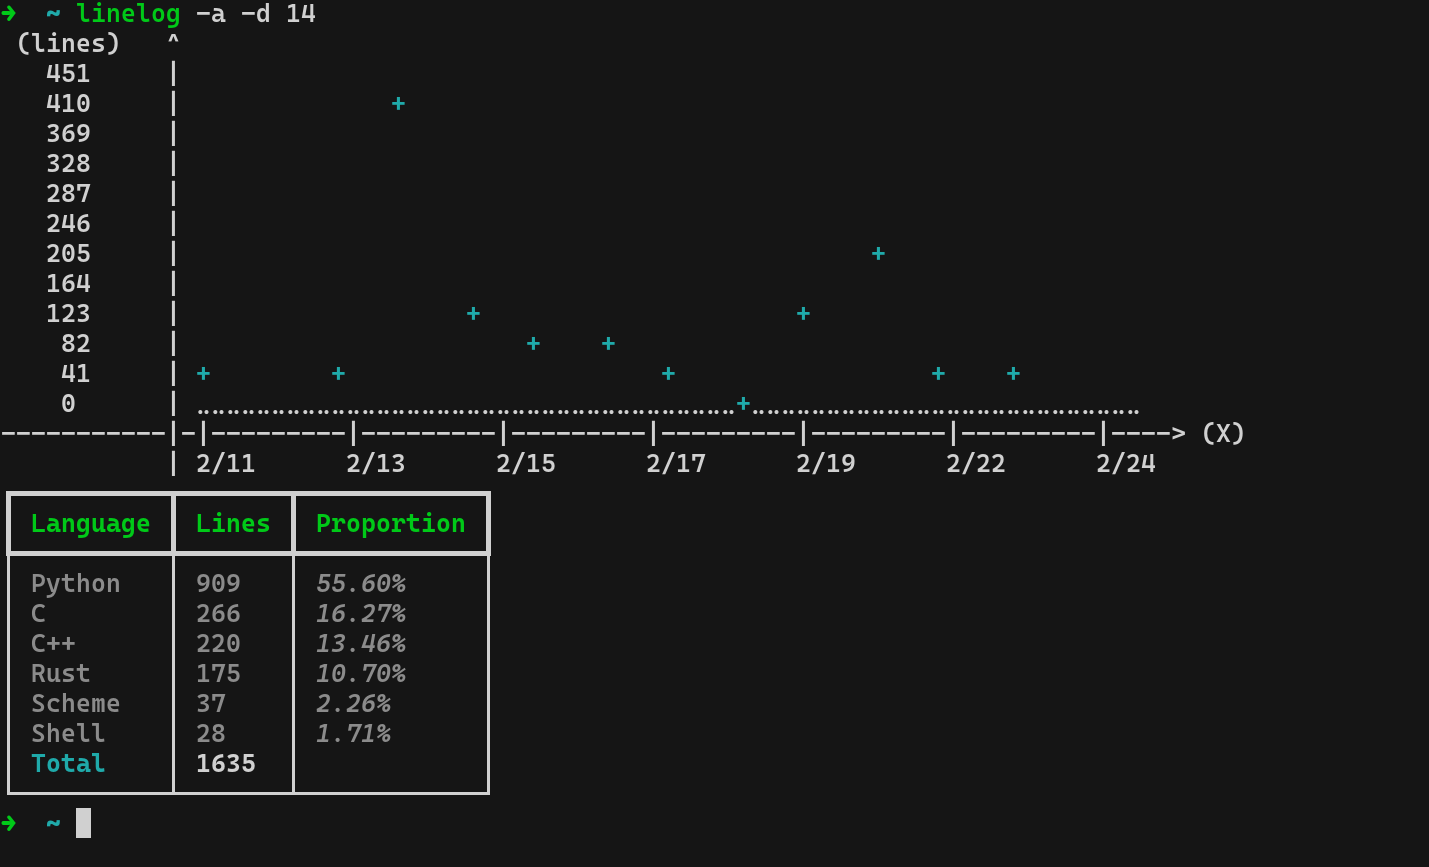
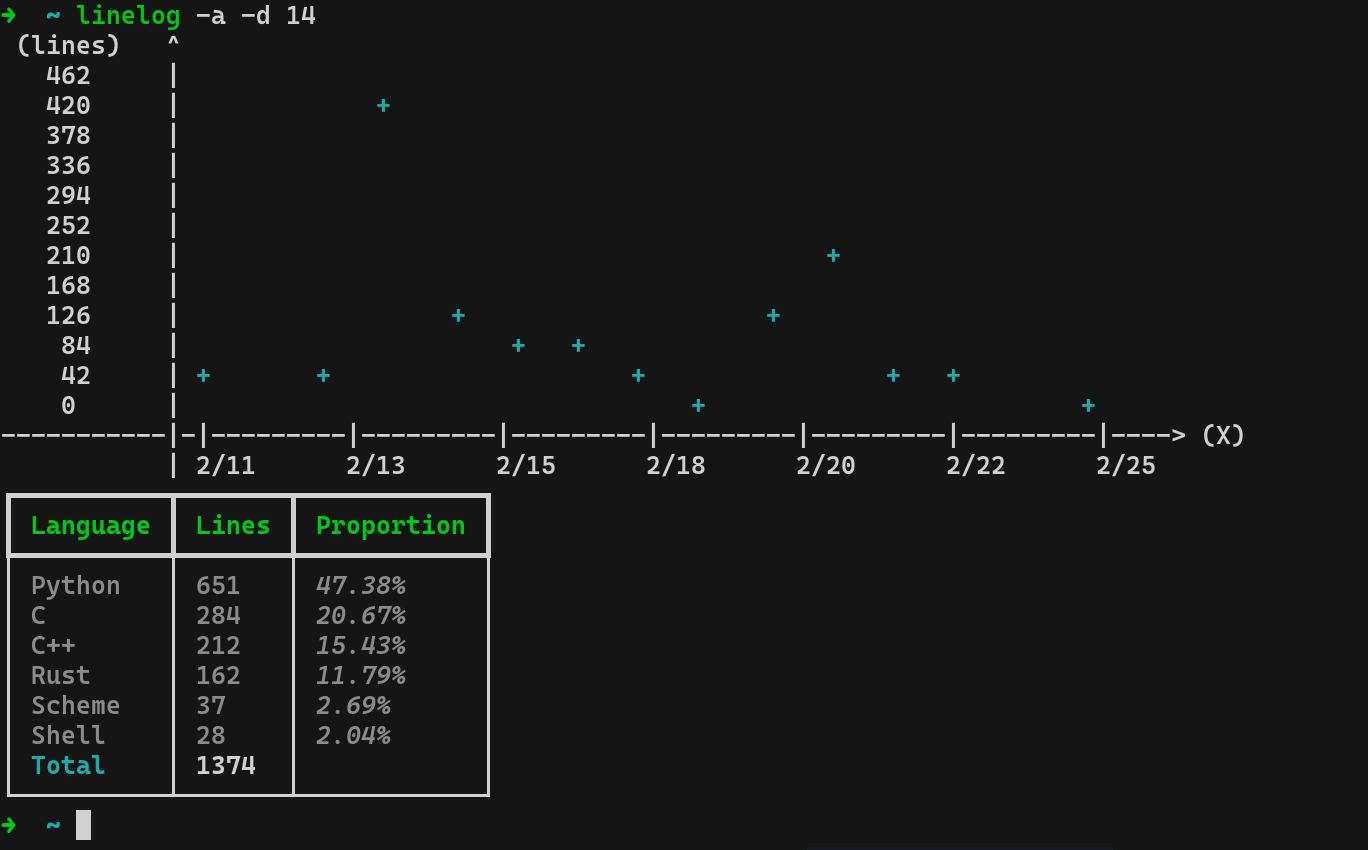
update readme
update default config

Changed region(s): [[0.0, 0.0, 0.9211, 0.9788], [0.4605, 0.4282, 0.4912, 0.4588], [0.2149, 0.4282, 0.2456, 0.4588]]

diff --git a/README.md b/README.md
@@ -4,10 +4,10 @@
 `linelog` is a CLI program that scans your local git repositories generates a summary of your total lines of code committed, broken down by language. For example, if I run `linelog -a` on my main desktop computer, it generates this:
 ![example-day](screenshots/linelog-example-day.png)
 
-This isn't very exciting since I've only written Python today. With the `-d` flag you can look back further in time, and see the results as a nice graph:
-<image>
+This isn't very exciting since I've not done much today (look, work-life balance is important.)  With the `-d` flag you can look back further in time, and see the results as a nice graph:
+![example-2week](screenshots/linelog-example-2week.png)
 
-*Hey, wait a second!*, you exclaim, *This very project has more than <> lines of Python code, and most of it was committed in that very interval!* That's very astute of you, you have a real eagle eye. The discrepency comes from the fact that `linelog` does its best to count *logical* lines of code by skipping comments and whitespaces. You can customize what counts as a line for a given filetype; see the section on [configuration](https://github.com/keagud/linelog#the-config-file)
+*Hey, wait a second!*, you exclaim, *This very project has more than 651 lines of Python code, and most of it was committed in that very interval!* That's very astute of you, you have a real eagle eye. The discrepency comes from the fact that `linelog` does its best to count *logical* lines of code by skipping comments and whitespaces. You can customize what counts as a line for a given filetype; see the section on [configuration](https://github.com/keagud/linelog#the-config-file)
 
 
 ## Installation
@@ -71,6 +71,6 @@ options:
 
 Config options take the form of regular expressions; when the program encounters a line that matches one of the expressions for a given filetype, it will not count it. See the comments in `config.yaml` for more details
 
-## Known Issues and TODOs
+
 
 
